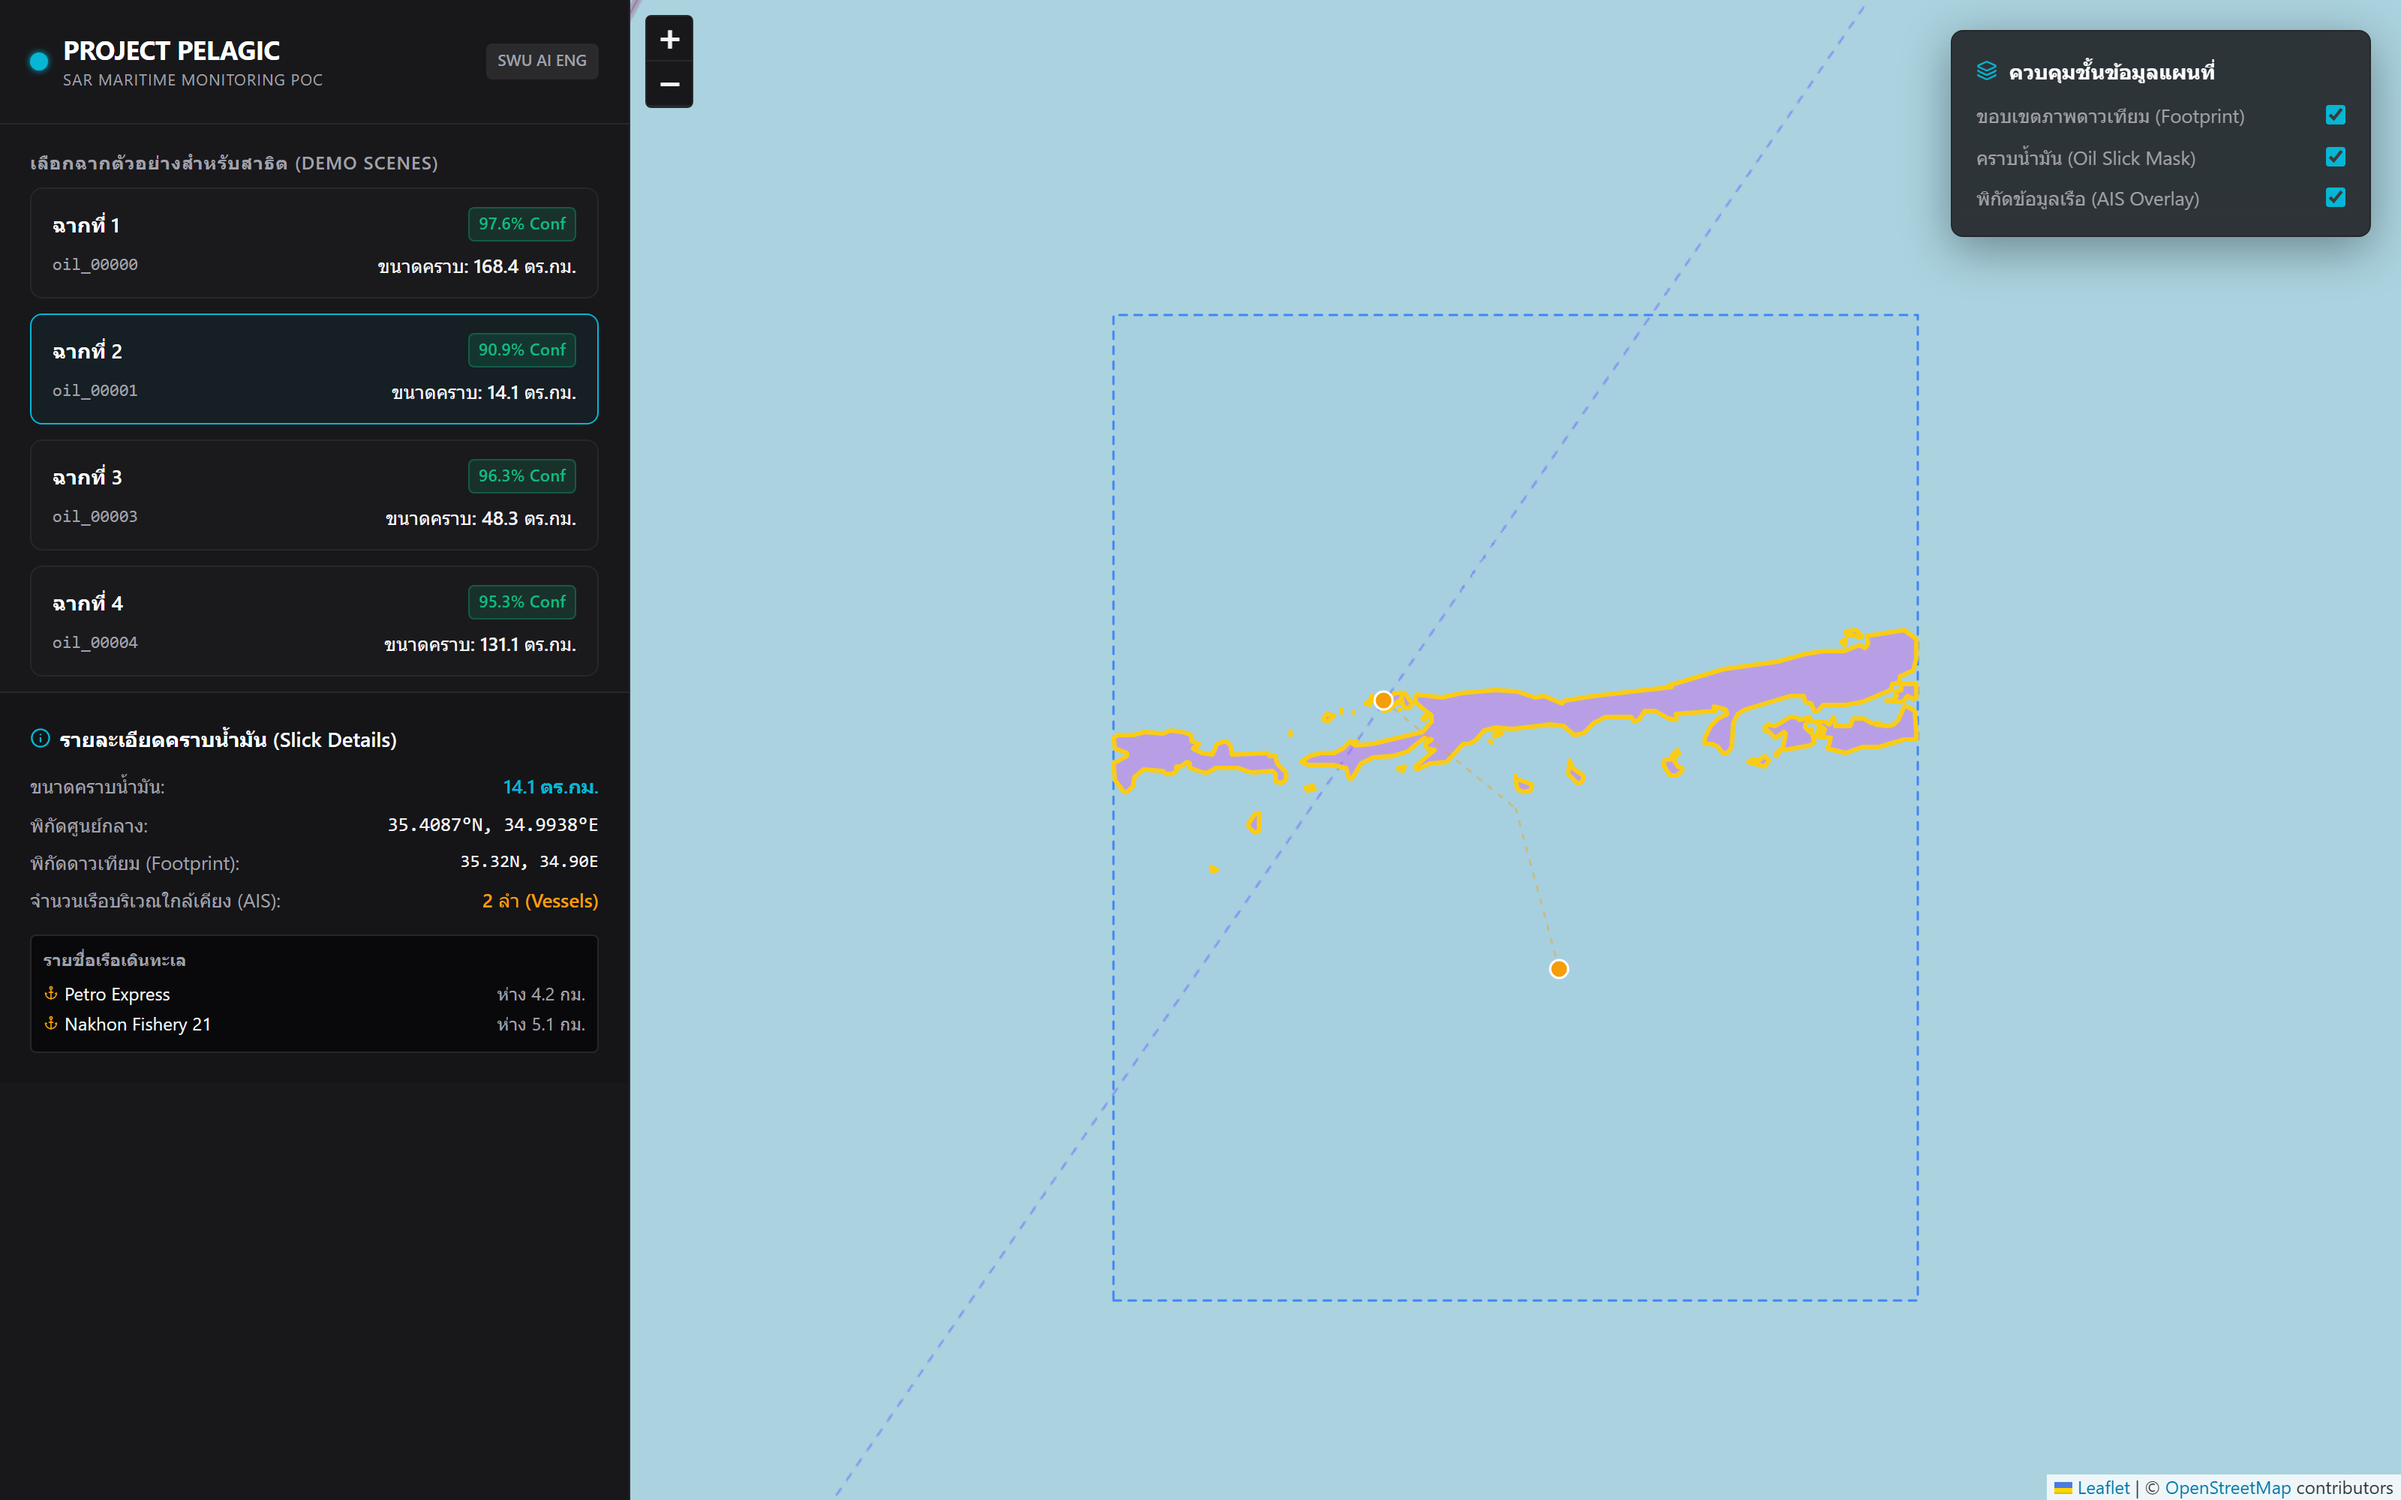
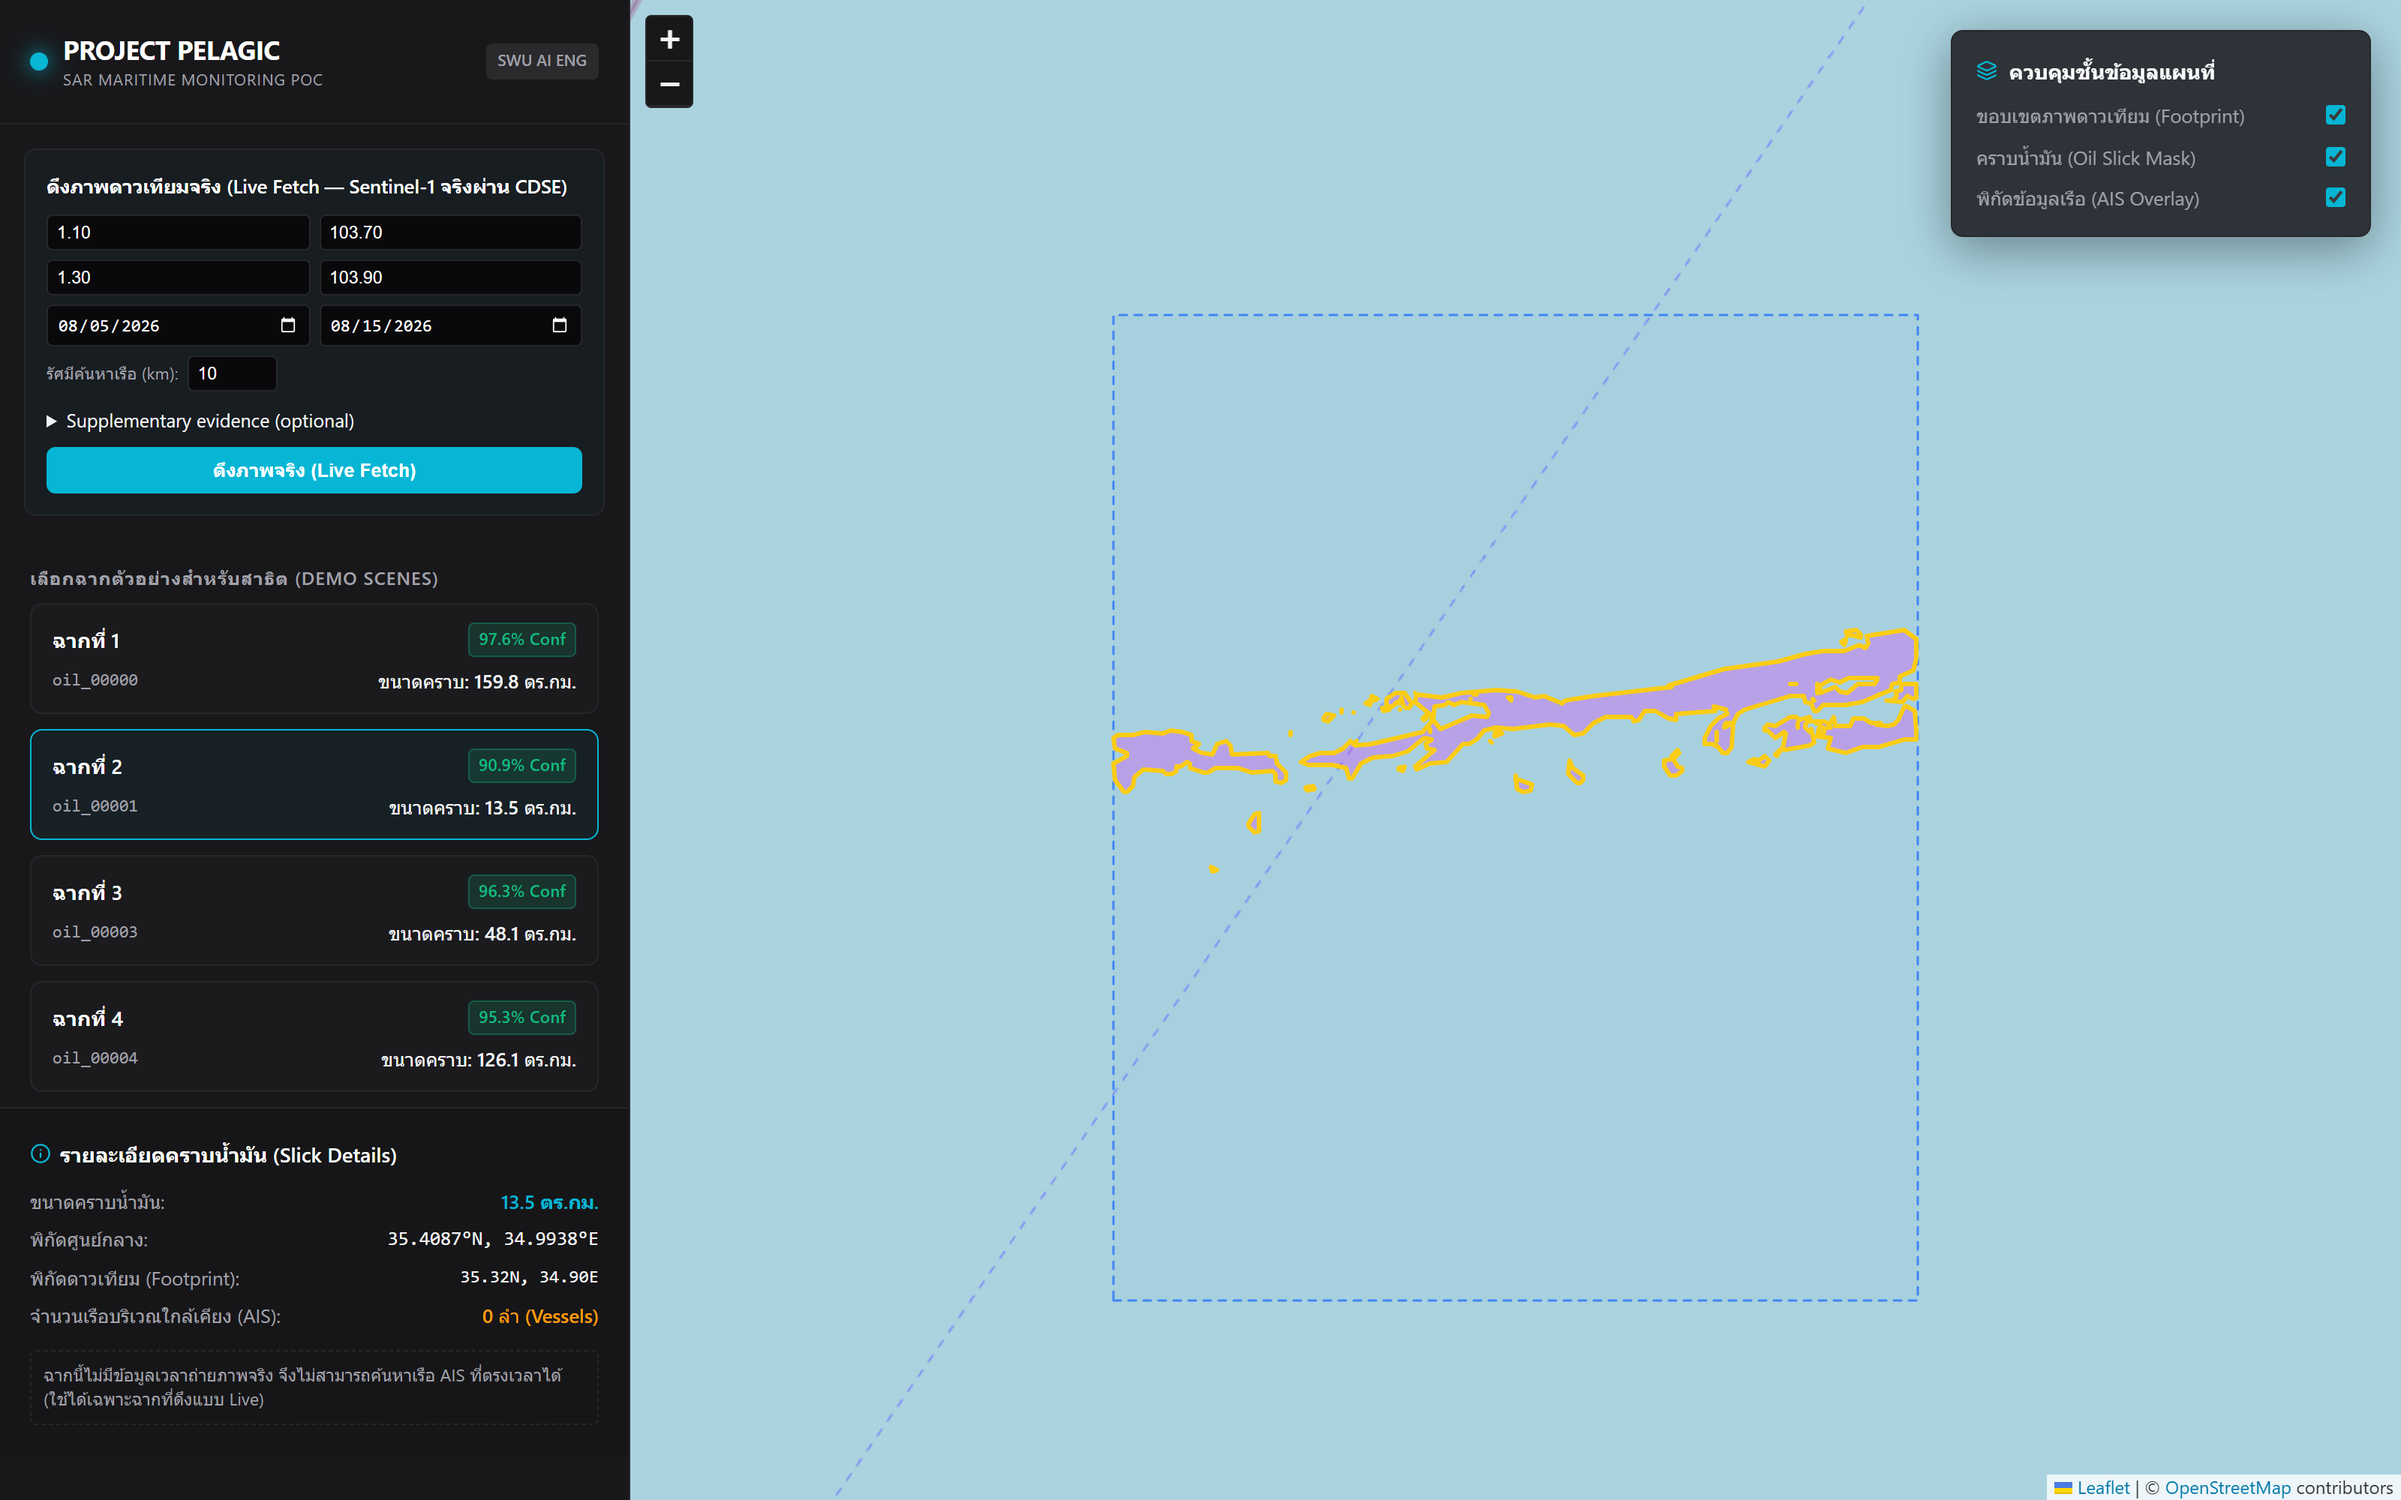
docs: recapture demo + live fallback screenshots; fix AGENTS.md FP range
Recaptured all fallback screenshots against the current UI with Playwright
(tile-settle wait, real dev servers, real API calls):
- demo_fallback/*: current post-hole-fix areas (159.8/13.5/48.1/126.1 km2)
  and the honest 0-vessel state; the old shots showed mock AIS vessels.
- live_fallback/01-09: real CDSE + GFW fetches (Singapore Strait,
  Stockholm Archipelago, Chonos), all status OK.
- live_fallback/10: labeled crop of 08's vessel cluster, built from the
  recorded marker positions of that same run (5 real candidates).

AGENTS.md's "Known trap" note now matches the corrected README range
(1.9-44.7%, recomputed from docs/holdout_per_scene_results.json).

diff --git a/AGENTS.md b/AGENTS.md
@@ -33,12 +33,14 @@ nearby AIS vessels rendered on a Leaflet map dashboard.
 ## Known trap: README vs. status.md disagree on one number
 
 README's "Lookalike False Alarm Suppression Analysis" section frames the v1→v2
-improvement as a "10% to 45%" per-scene pixel reduction. `docs/status.md`
-(session 5, more recent and more carefully verified) corrects this: the
-*average* false-positive area dropped from 41.3% to 37.5% of scene area —
-real, but more modest than the README's framing implies. The 10-45% range in
-the README describes spread across individual scenes, not the typical
-improvement. **Prefer status.md's framing** if asked about this metric, and
+improvement as a "1.9% to 44.7%" per-scene pixel reduction (corrected
+2026-09-27 from a misstated "10% to 45%"; recomputed from
+`docs/holdout_per_scene_results.json`, 3 of 10 lookalike scenes are under
+10%). `docs/status.md` (session 5, more recent and more carefully verified)
+gives the better headline: the *average* false-positive area dropped from
+41.3% to 37.5% of scene area — real, but more modest than the per-scene
+range suggests. The 1.9–44.7% range in the README describes spread across
+individual scenes, not the typical improvement. **Prefer status.md's framing** if asked about this metric, and
 flag the discrepancy rather than silently repeating either figure.
 
 ## Structural notes worth knowing before editing
